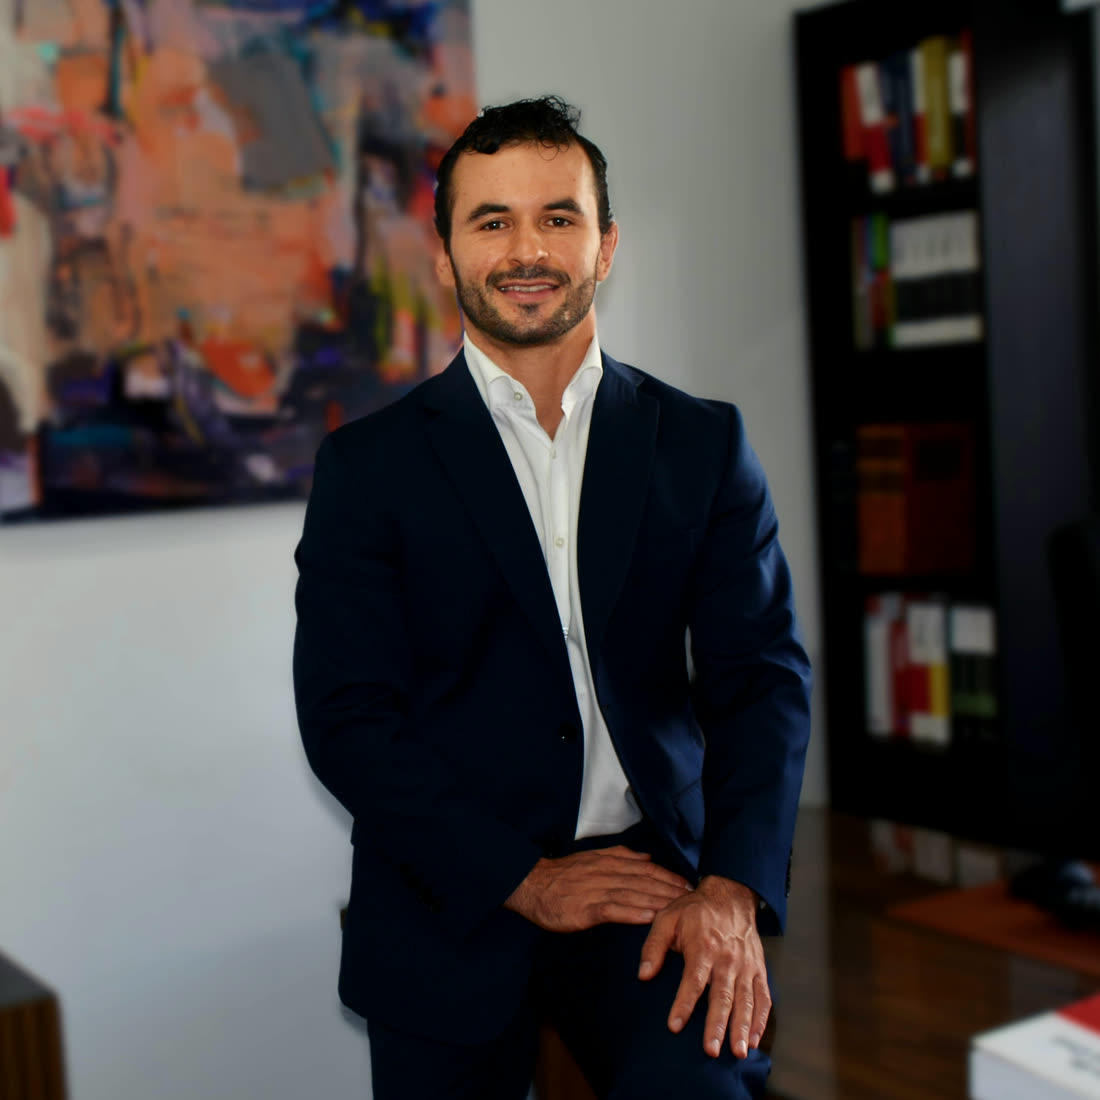
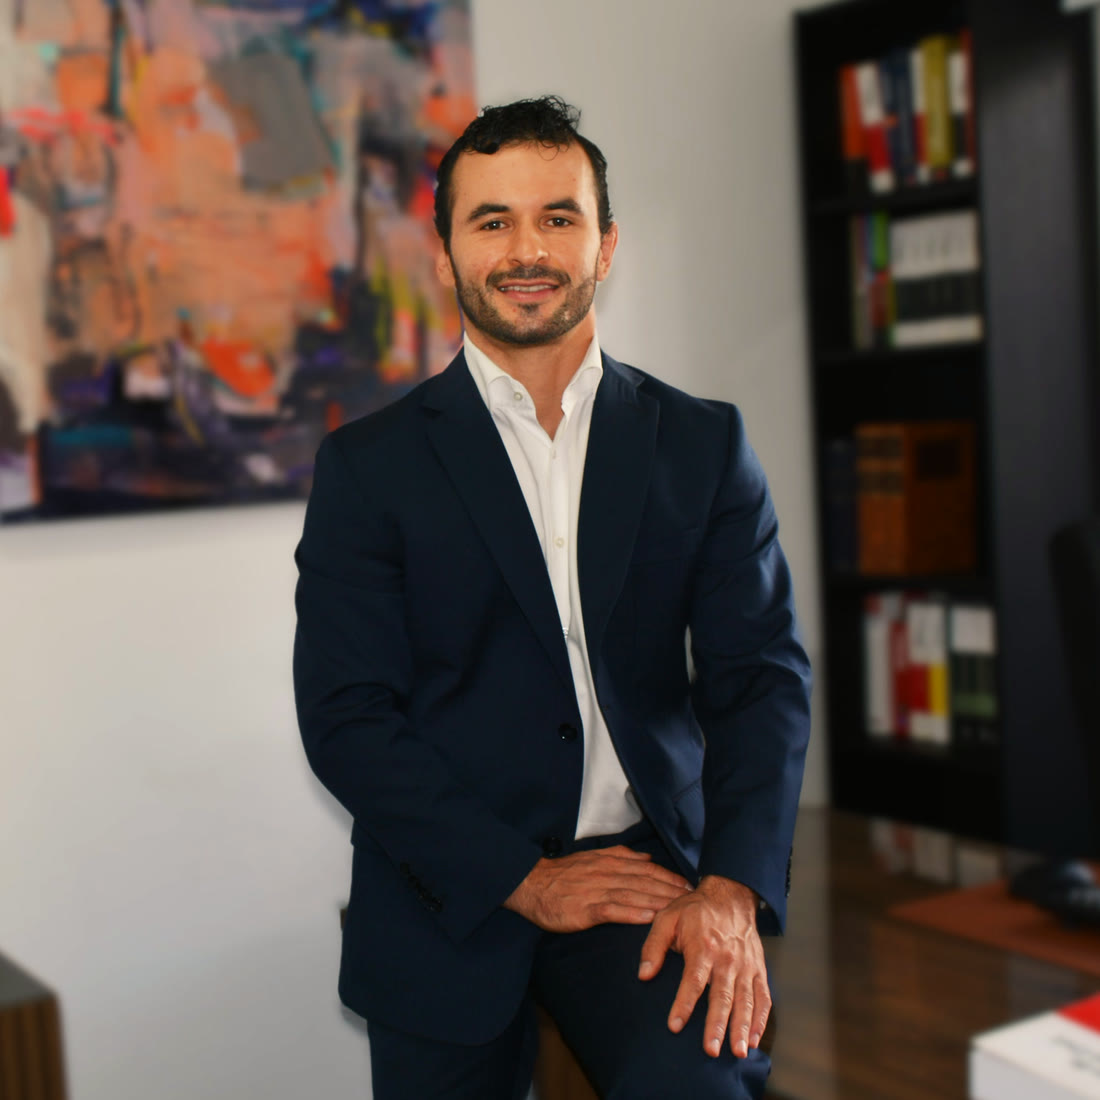
João: mesmo acabamento da foto do Diogo (parede neutra e mais clara)

diff --git a/equipa.html b/equipa.html
@@ -60,7 +60,7 @@
   <div class="hx-media fluted v4"></div>
 </section>
 <section class="light section">
-  <div class="wrap"><div class="team-grid"><a class="tcard" href="equipa-joao.html"><figure class="photo fluted has-photo"><img class="ph-img" src="assets/img/fotos/equipa-joao.jpg?v=6" alt="João Portas Fontes" loading="lazy" decoding="async" width="1100" height="1100"></figure><div class="tcard-b"><p class="role" data-i18n="team.role">Sócio fundador</p><h2>João Portas Fontes</h2><div class="chips" data-i18n="team.joao.chips"><span>Penal</span><span>Família</span><span>Migração</span><span>Civil</span></div><span class="tmore"><span data-i18n="team.view">Ver perfil</span><svg viewBox="0 0 16 16" fill="none" stroke="currentColor" stroke-width="1.5" aria-hidden="true"><path d="M5 11L11 5M6 5h5v5"/></svg></span></div></a><a class="tcard" href="equipa-diogo.html"><figure class="photo fluted has-photo"><img class="ph-img" src="assets/img/fotos/equipa-diogo.jpg?v=9" alt="Diogo Lopes Rodrigues" loading="lazy" decoding="async" width="780" height="780"></figure><div class="tcard-b"><p class="role" data-i18n="team.role">Sócio fundador</p><h2>Diogo Lopes Rodrigues</h2><div class="chips" data-i18n="team.diogo.chips"><span>Societário</span><span>Trabalho</span><span>Fiscal</span><span>Sucessões</span></div><span class="tmore"><span data-i18n="team.view">Ver perfil</span><svg viewBox="0 0 16 16" fill="none" stroke="currentColor" stroke-width="1.5" aria-hidden="true"><path d="M5 11L11 5M6 5h5v5"/></svg></span></div></a></div></div>
+  <div class="wrap"><div class="team-grid"><a class="tcard" href="equipa-joao.html"><figure class="photo fluted has-photo"><img class="ph-img" src="assets/img/fotos/equipa-joao.jpg?v=7" alt="João Portas Fontes" loading="lazy" decoding="async" width="1100" height="1100"></figure><div class="tcard-b"><p class="role" data-i18n="team.role">Sócio fundador</p><h2>João Portas Fontes</h2><div class="chips" data-i18n="team.joao.chips"><span>Penal</span><span>Família</span><span>Migração</span><span>Civil</span></div><span class="tmore"><span data-i18n="team.view">Ver perfil</span><svg viewBox="0 0 16 16" fill="none" stroke="currentColor" stroke-width="1.5" aria-hidden="true"><path d="M5 11L11 5M6 5h5v5"/></svg></span></div></a><a class="tcard" href="equipa-diogo.html"><figure class="photo fluted has-photo"><img class="ph-img" src="assets/img/fotos/equipa-diogo.jpg?v=9" alt="Diogo Lopes Rodrigues" loading="lazy" decoding="async" width="780" height="780"></figure><div class="tcard-b"><p class="role" data-i18n="team.role">Sócio fundador</p><h2>Diogo Lopes Rodrigues</h2><div class="chips" data-i18n="team.diogo.chips"><span>Societário</span><span>Trabalho</span><span>Fiscal</span><span>Sucessões</span></div><span class="tmore"><span data-i18n="team.view">Ver perfil</span><svg viewBox="0 0 16 16" fill="none" stroke="currentColor" stroke-width="1.5" aria-hidden="true"><path d="M5 11L11 5M6 5h5v5"/></svg></span></div></a></div></div>
 </section>
 </main>
 <footer class="foot">

diff --git a/equipa-joao.html b/equipa-joao.html
@@ -54,7 +54,7 @@
 <main>
 <section class="light section pf-page">
   <div class="wrap"><p class="hx-eye pf-crumb"><a href="index.html" data-i18n="nav.index">Início</a><span aria-hidden="true">/</span><a href="equipa.html" data-i18n="equipa.crumb">Equipa</a><span aria-hidden="true">/</span><span>João Portas Fontes</span></p><article class="profile" id="joao">
-      <figure class="photo fluted has-photo"><img class="ph-img" src="assets/img/fotos/perfil-joao.jpg?v=6" alt="João Portas Fontes" decoding="async" width="1000" height="1250"></figure>
+      <figure class="photo fluted has-photo"><img class="ph-img" src="assets/img/fotos/perfil-joao.jpg?v=7" alt="João Portas Fontes" decoding="async" width="1000" height="1250"></figure>
       <div>
         <p class="role" data-i18n="team.role">Sócio fundador</p>
         <h1>João Portas Fontes</h1>
